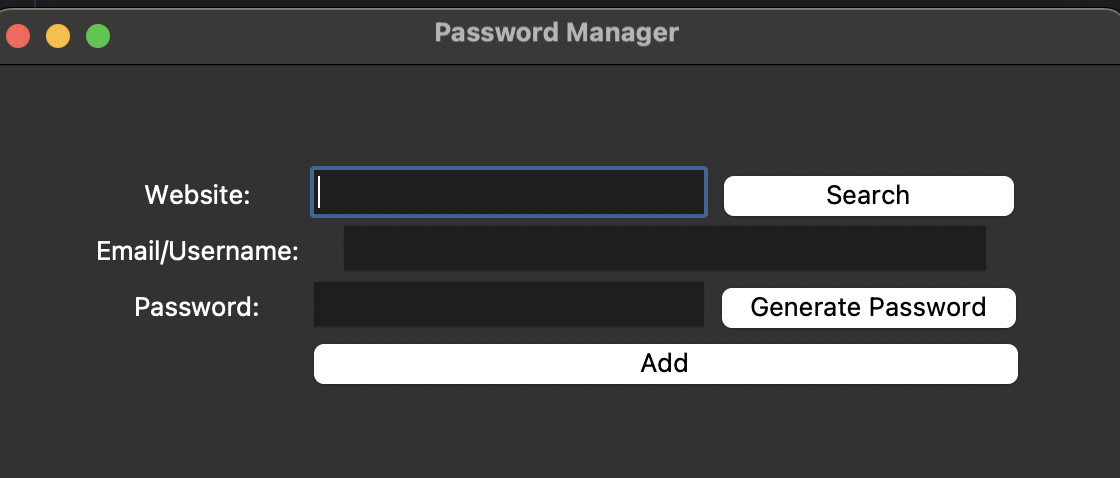
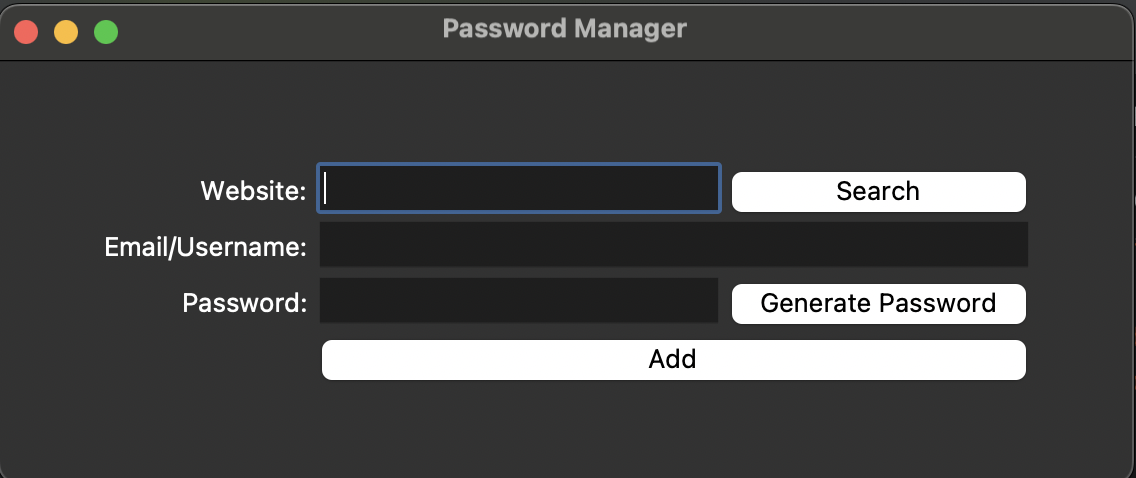
Initial commit: password manager app 1 hello this is the third commit

diff --git a/main.py b/main.py
@@ -1,9 +1,10 @@
 import json
-import random
 import string
+import secrets
 import tkinter as tk
 from tkinter import messagebox
 import pyperclip
+
 
 # ---------------------------- PASSWORD GENERATOR ------------------------------- #
 def generate_password():
@@ -11,11 +12,26 @@ def generate_password():
     digits = string.digits
     symbols = string.punctuation
 
-    characters = letters + digits + symbols
-    password = ''.join(random.choice(characters) for _ in range(12))
+    # Ensure at least one of each character type
+    password = [
+        secrets.choice(letters),
+        secrets.choice(digits),
+        secrets.choice(symbols)
+    ]
+
+    # Add remaining characters
+    remaining_length = 9  # Total 12 characters
+    all_chars = letters + digits + symbols
+    password += [secrets.choice(all_chars) for _ in range(remaining_length)]
+
+    # Shuffle to avoid predictable patterns
+    secrets.SystemRandom().shuffle(password)
+    password = ''.join(password)
+
     password_entry.delete(0, tk.END)
     password_entry.insert(0, password)
-    pyperclip.copy(password)  # Copy to clipboard
+    pyperclip.copy(password)
+    messagebox.showinfo("Success", "Password generated and copied to clipboard!")
 
 
 # ---------------------------- SAVE PASSWORD ------------------------------- #
@@ -23,6 +39,11 @@ def save_password():
     website = website_entry.get().strip()
     email = email_entry.get().strip()
     password = password_entry.get().strip()
+
+    if not website or not password:
+        messagebox.showwarning("Oops", "Please fill in both website and password fields!")
+        return
+
     new_data = {
         website: {
             "email": email,
@@ -30,42 +51,59 @@ def save_password():
         }
     }
 
-    if not website or not password:
-        messagebox.showwarning("Oops", "Please don't leave website or password fields empty!")
-        return
-
     try:
         with open("data.json", "r") as file:
-            data = json.load(file)
+            try:
+                data = json.load(file)
+            except json.JSONDecodeError:
+                data = {}
+                messagebox.showwarning("Warning", "Corrupted data file. Starting fresh.")
     except FileNotFoundError:
         data = {}
 
+    if website in data:
+        if not messagebox.askyesno("Confirm", f"Entry for {website} exists. Overwrite?"):
+            return
+
     data.update(new_data)
 
-    with open("data.json", "w") as file:
-        json.dump(data, file, indent=4)
+    try:
+        with open("data.json", "w") as file:
+            json.dump(data, file, indent=4)
+    except Exception as e:
+        messagebox.showerror("Error", f"Failed to save data: {str(e)}")
+        return
 
     website_entry.delete(0, tk.END)
     password_entry.delete(0, tk.END)
+    messagebox.showinfo("Success", "Credentials saved successfully!")
 
 
 # ---------------------------- FIND PASSWORD ------------------------------- #
 def find_password():
     website = website_entry.get().strip()
+    if not website:
+        messagebox.showwarning("Oops", "Please enter a website to search.")
+        return
+
     try:
         with open("data.json", "r") as file:
-            data = json.load(file)
+            try:
+                data = json.load(file)
+            except json.JSONDecodeError:
+                messagebox.showerror("Error", "Corrupted data file.")
+                return
     except FileNotFoundError:
-        messagebox.showinfo("Error", "No Data File Found")
+        messagebox.showinfo("Error", "No data file found.")
         return
 
     if website in data:
         email = data[website]["email"]
         password = data[website]["password"]
-        messagebox.showinfo(website, f"Email: {email}\nPassword: {password}")
         pyperclip.copy(password)
+        messagebox.showinfo(website, f"Email: {email}\nPassword: {password}\n\nPassword copied to clipboard!")
     else:
-        messagebox.showinfo("Not Found", f"No details for '{website}' exist.")
+        messagebox.showinfo("Not Found", f"No entry found for '{website}'")
 
 
 # ---------------------------- UI SETUP ------------------------------- #
@@ -74,26 +112,28 @@ window.title("Password Manager")
 window.config(padx=50, pady=50)
 
 # Labels
-tk.Label(text="Website:").grid(row=1, column=0)
-tk.Label(text="Email/Username:").grid(row=2, column=0)
-tk.Label(text="Password:").grid(row=3, column=0)
+tk.Label(text="Website:").grid(row=1, column=0, sticky="e")
+tk.Label(text="Email/Username:").grid(row=2, column=0, sticky="e")
+tk.Label(text="Password:").grid(row=3, column=0, sticky="e")
 
 # Entries
 website_entry = tk.Entry(width=21)
-website_entry.grid(row=1, column=1)
+website_entry.grid(row=1, column=1, sticky="ew")
 website_entry.focus()
 
 email_entry = tk.Entry(width=35)
-email_entry.grid(row=2, column=1, columnspan=2)
-email_entry.insert(0, "")
+email_entry.grid(row=2, column=1, columnspan=2, sticky="ew")
 
 password_entry = tk.Entry(width=21)
-
-password_entry.grid(row=3, column=1)
+password_entry.grid(row=3, column=1, sticky="ew")
 
 # Buttons
-tk.Button(text="Search", width=13, command=find_password).grid(row=1, column=2)
-tk.Button(text="Generate Password", command=generate_password).grid(row=3, column=2)
-tk.Button(text="Add", width=36, command=save_password).grid(row=4, column=1, columnspan=2)
+tk.Button(text="Search", width=13, command=find_password).grid(row=1, column=2, sticky="ew")
+tk.Button(text="Generate Password", command=generate_password).grid(row=3, column=2, sticky="ew")
+tk.Button(text="Add", width=36, command=save_password).grid(row=4, column=1, columnspan=2, sticky="ew")
+
+# Grid configuration
+window.columnconfigure(1, weight=1)
+window.rowconfigure(4, weight=1)
 
 window.mainloop()
